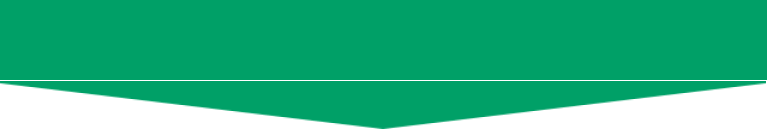
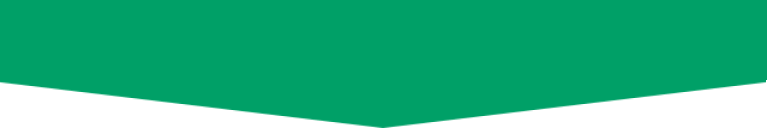
customer-modify-request-no9

diff --git a/css/sustainability/materiality.css b/css/sustainability/materiality.css
@@ -20,25 +20,24 @@
   color: #fff;
   font-size: 1.125rem;
   text-align: center;
-  border-right: 1px solid rgba(224, 224, 224, 0.5);
 }
 
 .issue-gp01::after,
 .issue-gp02::after {
   position: absolute;
   top: 0;
-  right: -15px;
+  left: 100%;
   width: 14px;
   height: 60px;
   content: '';
 }
 
 .issue-gp01::after {
-  background: url('/img/sustainability/icon_traingle01.svg') no-repeat center/contain;
+  background: url('/img/sustainability/icon_traingle01.png') no-repeat right center/cover;
 }
 
 .issue-gp02::after {
-  background: url('/img/sustainability/icon_traingle02.png') no-repeat center/contain;
+  background: url('/img/sustainability/icon_traingle02.png') no-repeat right center/cover;
 }
 
 .issue-gp01 {
